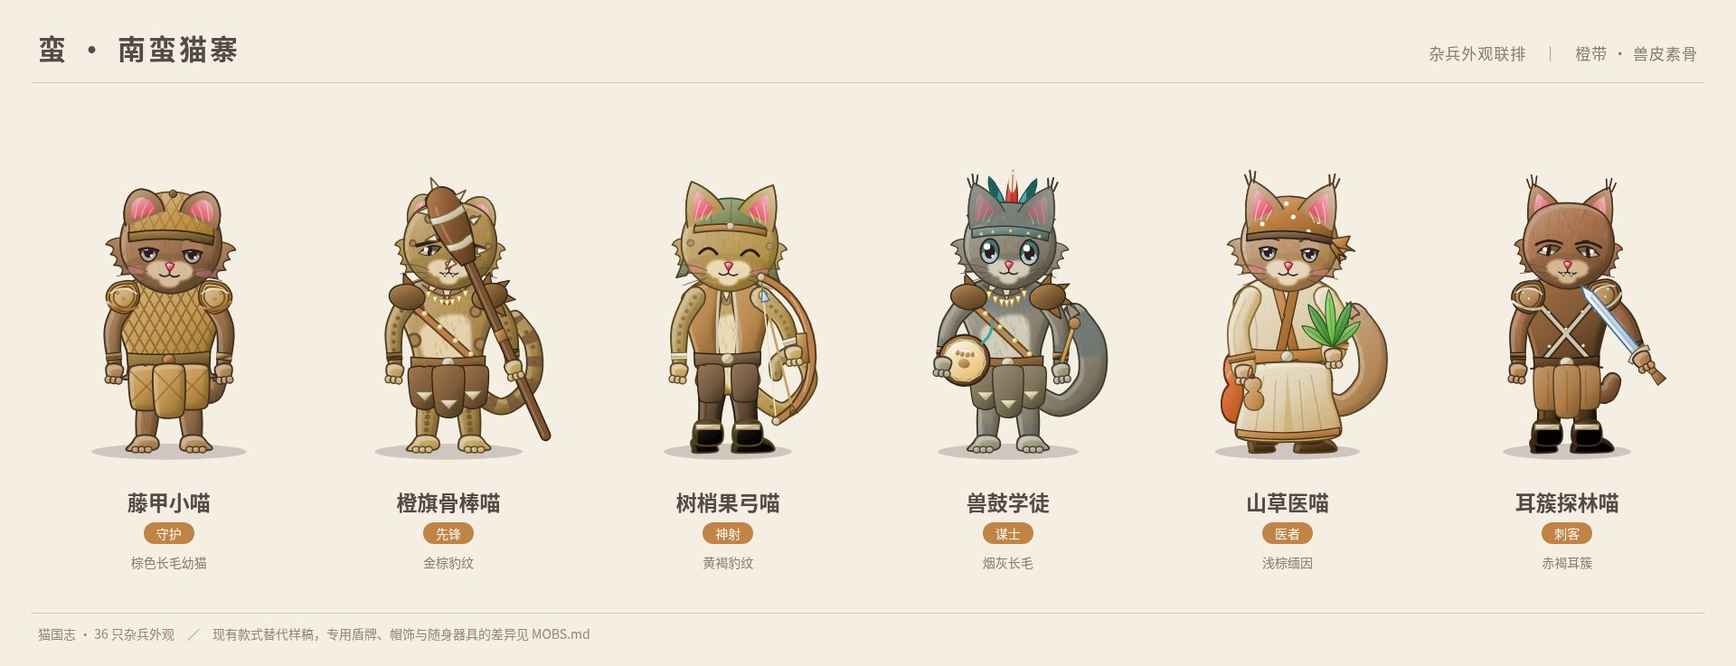
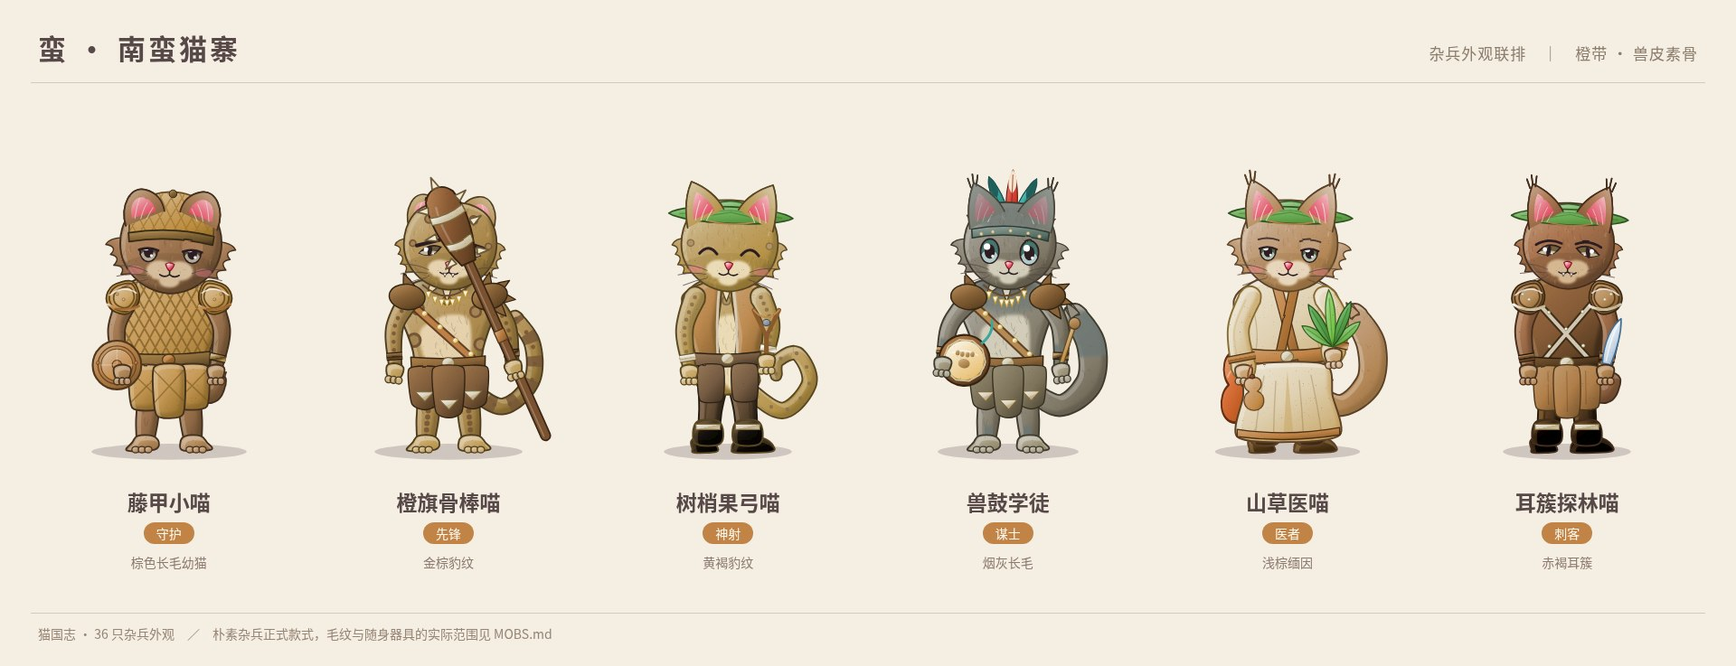
feat(mobs): use approved plain equipment and finalize 36 looks

diff --git a/src/data/mob-looks.ts b/src/data/mob-looks.ts
@@ -10,14 +10,14 @@ const UNIFORM: Record<string, Palette> = {
   xian: { main: '#619f9a', sub: '#486c70', trim: '#bdccc4', cloth: '#e4eeea' },
 };
 
-/** 每只杂兵手写毛色、五官、体型和装束；缺款式的替代明细见 docs/MOBS.md。 */
+/** 每只杂兵手写毛色、五官、体型和装束；现有款式的实际范围见 docs/MOBS.md。 */
 export const MOB_LOOKS: Record<string, CatLook> = {
   // 魏：蓝甲与旧银布边，连巡夜用的颈巾也有军需处的蓝。
   mob_wei_guard: {
     coat: { pattern: 'solid', base: '#8295ae', light: '#dce4ed' },
     eye: { color: '#bd925a', style: 'round' }, ear: 'round', tail: 'stub',
     build: 1.08, head: 1.03, blush: true,
-    outfit: { pal: { ...UNIFORM.wei, main: '#4c6284', cloth: '#c7d3e0' }, head: 'helmetWei', body: 'armorWei', back: 'none', weapon: 'none', extra: [] },
+    outfit: { pal: { ...UNIFORM.wei, main: '#4c6284', cloth: '#c7d3e0' }, head: 'helmetWei', body: 'armorWei', back: 'none', weapon: 'boxShield', extra: [] },
   },
   mob_wei_vanguard: {
     coat: { pattern: 'tabby', base: '#96928b', light: '#e2dcd0', stripe: '#5c6068' },
@@ -29,7 +29,7 @@ export const MOB_LOOKS: Record<string, CatLook> = {
     coat: { pattern: 'shaded', base: '#bac2ca', light: '#f1eee5', accent: '#8493a5' },
     eye: { color: '#699baa', style: 'sharp' }, ear: 'pointy', tail: 'curl',
     build: 0.9, head: 0.98, blush: true,
-    outfit: { pal: { ...UNIFORM.wei, main: '#526a91', cloth: '#55708f' }, head: 'scholarCap', body: 'vest', back: 'none', weapon: 'bow', extra: [] },
+    outfit: { pal: { ...UNIFORM.wei, main: '#526a91', cloth: '#55708f' }, head: 'scholarCap', body: 'vest', back: 'none', weapon: 'crossbow', extra: [] },
   },
   mob_wei_strategist: {
     coat: { pattern: 'tuxedo', base: '#839ab2', light: '#f4eee3' },
@@ -47,7 +47,7 @@ export const MOB_LOOKS: Record<string, CatLook> = {
     coat: { pattern: 'shaded', base: '#78818d', light: '#c6ced3', accent: '#525e70' },
     eye: { color: '#87a27c', style: 'cool' }, ear: 'pointy', tail: 'long',
     build: 0.89, head: 0.96,
-    outfit: { pal: { ...UNIFORM.wei, main: '#3c5069', sub: '#303d4e', trim: '#929ea9' }, head: 'none', body: 'vest', back: 'none', weapon: 'sword', extra: ['scarf'] },
+    outfit: { pal: { ...UNIFORM.wei, main: '#3c5069', sub: '#303d4e', trim: '#929ea9' }, head: 'hood', body: 'vest', back: 'none', weapon: 'dagger', extra: ['scarf'] },
   },
 
   // 蜀：绿布、米白里衬和温红缝边；草编甲仍保留猫窝的本色。
@@ -55,7 +55,7 @@ export const MOB_LOOKS: Record<string, CatLook> = {
     coat: { pattern: 'tuxedo', base: '#d79557', light: '#f5ead9' },
     eye: { color: '#7e956a', style: 'round' }, ear: 'big', tail: 'curl',
     build: 1.08, head: 1.02, blush: true,
-    outfit: { pal: { ...UNIFORM.shu, main: '#608b61' }, head: 'sailorBandana', body: 'rattan', back: 'none', weapon: 'none', extra: ['scarf'] },
+    outfit: { pal: { ...UNIFORM.shu, main: '#608b61' }, head: 'sailorBandana', body: 'rattan', back: 'none', weapon: 'shield', extra: ['scarf'] },
   },
   mob_shu_vanguard: {
     coat: { pattern: 'tabby', base: '#a78a65', light: '#e4d5b8', stripe: '#665647' },
@@ -67,7 +67,7 @@ export const MOB_LOOKS: Record<string, CatLook> = {
     coat: { pattern: 'calico', base: '#d98f56', light: '#f4eadb', accent: '#54463e' },
     eye: { color: '#859f6f', style: 'keen' }, ear: 'round', tail: 'curl',
     build: 0.89, head: 1.02, blush: true,
-    outfit: { pal: { ...UNIFORM.shu, main: '#679669', cloth: '#9bae8b' }, head: 'scholarCap', body: 'vest', back: 'none', weapon: 'bow', extra: [] },
+    outfit: { pal: { ...UNIFORM.shu, main: '#679669', cloth: '#9bae8b' }, head: 'leafHat', body: 'vest', back: 'none', weapon: 'bow', extra: [] },
   },
   mob_shu_strategist: {
     coat: { pattern: 'tabby', base: '#deca9e', light: '#f5ecda', stripe: '#aa916d' },
@@ -85,7 +85,7 @@ export const MOB_LOOKS: Record<string, CatLook> = {
     coat: { pattern: 'tabby', base: '#7c6655', light: '#c9bda8', stripe: '#4b443e' },
     eye: { color: '#83a082', style: 'keen' }, ear: 'pointy', tail: 'long',
     build: 0.88, head: 0.98,
-    outfit: { pal: { ...UNIFORM.shu, main: '#64846a', sub: '#626e65', trim: '#aaa891' }, head: 'none', body: 'vest', back: 'none', weapon: 'sword', extra: ['scarf'] },
+    outfit: { pal: { ...UNIFORM.shu, main: '#64846a', sub: '#626e65', trim: '#aaa891' }, head: 'none', body: 'vest', back: 'none', weapon: 'dagger', extra: ['scarf'] },
   },
 
   // 吴：赤布配磨旧的铜褐边；不用英雄的亮金冠和飘带。
@@ -93,7 +93,7 @@ export const MOB_LOOKS: Record<string, CatLook> = {
     coat: { pattern: 'cow', base: '#969ca3', light: '#eeece5', accent: '#969ca3' },
     eye: { color: '#a69a76', style: 'wide' }, ear: 'round', tail: 'stub',
     build: 1.07, head: 1.04, blush: true,
-    outfit: { pal: { ...UNIFORM.wu, main: '#ba5c50' }, head: 'sailorBandana', body: 'armorLight', back: 'none', weapon: 'none', extra: [] },
+    outfit: { pal: { ...UNIFORM.wu, main: '#ba5c50' }, head: 'ratCap', body: 'armorLight', back: 'none', weapon: 'shield', extra: [] },
   },
   mob_wu_vanguard: {
     coat: { pattern: 'spots', base: '#bc965f', light: '#ecd8b8', accent: '#765337' },
@@ -117,13 +117,13 @@ export const MOB_LOOKS: Record<string, CatLook> = {
     coat: { pattern: 'shaded', base: '#dcc79b', light: '#f6ead3', accent: '#b8a37d' },
     eye: { color: '#85a995', style: 'calm' }, ear: 'round', tail: 'long',
     build: 0.97, head: 1.01, blush: true,
-    outfit: { pal: { ...UNIFORM.wu, cloth: '#eed5cc', trim: '#9bac8e' }, head: 'lotusCrown', body: 'robeScholar', back: 'none', weapon: 'herbs', extra: [] },
+    outfit: { pal: { ...UNIFORM.wu, cloth: '#eed5cc', trim: '#9bac8e' }, head: 'leafHat', body: 'robeScholar', back: 'none', weapon: 'herbs', extra: [] },
   },
   mob_wu_assassin: {
     coat: { pattern: 'spots', base: '#8f7256', light: '#d5c3a9', accent: '#50433a' },
     eye: { color: '#a4a779', style: 'sharp' }, ear: 'pointy', tail: 'ring',
     build: 0.9, head: 0.96,
-    outfit: { pal: { ...UNIFORM.wu, main: '#7d514a', sub: '#5f403c', trim: '#a59785' }, head: 'none', body: 'vest', back: 'none', weapon: 'sword', extra: ['scarf'] },
+    outfit: { pal: { ...UNIFORM.wu, main: '#7d514a', sub: '#5f403c', trim: '#a59785' }, head: 'hood', body: 'vest', back: 'none', weapon: 'dagger', extra: ['scarf'] },
   },
 
   // 群：紫褐衣料与灰布扣，行囊旧一些，爪子仍擦得很干净。
@@ -131,7 +131,7 @@ export const MOB_LOOKS: Record<string, CatLook> = {
     coat: { pattern: 'solid', base: '#9c7a60', light: '#dac4a5' },
     eye: { color: '#af9b6d', style: 'cool' }, ear: 'round', tail: 'stub',
     build: 1.12, head: 1.03, blush: true,
-    outfit: { pal: { ...UNIFORM.qun, main: '#766283', sub: '#615766' }, head: 'helmetWei', body: 'armorWei', back: 'none', weapon: 'none', extra: [] },
+    outfit: { pal: { ...UNIFORM.qun, main: '#766283', sub: '#615766' }, head: 'helmetWei', body: 'armorWei', back: 'none', weapon: 'shield', extra: [] },
   },
   mob_qun_vanguard: {
     coat: { pattern: 'cow', base: '#51494c', light: '#ece7db', accent: '#51494c' },
@@ -161,7 +161,7 @@ export const MOB_LOOKS: Record<string, CatLook> = {
     coat: { pattern: 'tuxedo', base: '#464049', light: '#ebe7de' },
     eye: { color: '#90a5a2', style: 'keen' }, ear: 'pointy', tail: 'long',
     build: 0.88, head: 0.97,
-    outfit: { pal: { ...UNIFORM.qun, main: '#67536e', sub: '#514552', trim: '#9f929c' }, head: 'none', body: 'vest', back: 'none', weapon: 'sword', extra: ['tassel'] },
+    outfit: { pal: { ...UNIFORM.qun, main: '#67536e', sub: '#514552', trim: '#9f929c' }, head: 'hood', body: 'vest', back: 'none', weapon: 'dagger', extra: ['tassel'] },
   },
 
   // 蛮：橙带、兽皮与素骨；藤甲、羽冠和草药各有自己的山林差事。
@@ -169,7 +169,7 @@ export const MOB_LOOKS: Record<string, CatLook> = {
     coat: { pattern: 'solid', base: '#aa7e58', light: '#dac2a1' },
     eye: { color: '#948264', style: 'sleepy' }, ear: 'round', tail: 'stub',
     build: 1.08, head: 1.07, fluffy: true, blush: true,
-    outfit: { pal: { ...UNIFORM.man, trim: '#c18346' }, head: 'rattanHelm', body: 'rattan', back: 'none', weapon: 'none', extra: [] },
+    outfit: { pal: { ...UNIFORM.man, trim: '#c18346' }, head: 'rattanHelm', body: 'rattan', back: 'none', weapon: 'shield', extra: [] },
   },
   mob_man_vanguard: {
     coat: { pattern: 'spots', base: '#b99860', light: '#ead7b5', accent: '#765637' },
@@ -181,7 +181,7 @@ export const MOB_LOOKS: Record<string, CatLook> = {
     coat: { pattern: 'spots', base: '#c2a66f', light: '#eee0bd', accent: '#8b714c' },
     eye: { color: '#8eaa7d', style: 'happy' }, ear: 'pointy', tail: 'curl',
     build: 0.89, head: 1.02, blush: true,
-    outfit: { pal: { ...UNIFORM.man, main: '#bd8a50', cloth: '#8e9a6b' }, head: 'scholarCap', body: 'vest', back: 'none', weapon: 'bow', extra: [] },
+    outfit: { pal: { ...UNIFORM.man, main: '#bd8a50', cloth: '#8e9a6b' }, head: 'leafHat', body: 'vest', back: 'none', weapon: 'slingshot', extra: [] },
   },
   mob_man_strategist: {
     coat: { pattern: 'shaded', base: '#969183', light: '#d8d3bf', accent: '#6c7774' },
@@ -193,13 +193,13 @@ export const MOB_LOOKS: Record<string, CatLook> = {
     coat: { pattern: 'solid', base: '#c2a07e', light: '#ebdbc2' },
     eye: { color: '#899f7d', style: 'calm' }, ear: 'tuft', tail: 'bushy',
     build: 1.01, head: 1.02, fluffy: true, blush: true,
-    outfit: { pal: { ...UNIFORM.man, cloth: '#dfd0b0' }, head: 'sailorBandana', body: 'robeScholar', back: 'gourd', weapon: 'herbs', extra: [] },
+    outfit: { pal: { ...UNIFORM.man, cloth: '#dfd0b0' }, head: 'leafHat', body: 'robeScholar', back: 'gourd', weapon: 'herbs', extra: [] },
   },
   mob_man_assassin: {
     coat: { pattern: 'solid', base: '#ad7752', light: '#d9bd96' },
     eye: { color: '#af976e', style: 'keen' }, ear: 'tuft', tail: 'stub',
     build: 0.89, head: 0.96,
-    outfit: { pal: { ...UNIFORM.man, main: '#b07e49', sub: '#765a46' }, head: 'none', body: 'armorLight', back: 'none', weapon: 'sword', extra: [] },
+    outfit: { pal: { ...UNIFORM.man, main: '#b07e49', sub: '#765a46' }, head: 'leafHat', body: 'armorLight', back: 'none', weapon: 'dagger', extra: [] },
   },
 
   // 仙：青白棉袍与灰玉布扣，值门和拾铃的小猫不带仙光。
@@ -207,7 +207,7 @@ export const MOB_LOOKS: Record<string, CatLook> = {
     coat: { pattern: 'solid', base: '#eeeae1', light: '#faf5e9' },
     eye: { color: '#8ca8b3', style: 'round' }, ear: 'round', tail: 'bushy',
     build: 1.08, head: 1.04, fluffy: true, blush: true,
-    outfit: { pal: { ...UNIFORM.xian, cloth: '#b9ceca', trim: '#92b5ab' }, head: 'lotusCrown', body: 'robeTaoist', back: 'none', weapon: 'none', extra: [] },
+    outfit: { pal: { ...UNIFORM.xian, cloth: '#b9ceca', trim: '#92b5ab' }, head: 'lotusCrown', body: 'robeTaoist', back: 'none', weapon: 'shield', extra: [] },
   },
   mob_xian_vanguard: {
     coat: { pattern: 'shaded', base: '#ccd3d1', light: '#f4f1e8', accent: '#a2b6bc' },
@@ -219,7 +219,7 @@ export const MOB_LOOKS: Record<string, CatLook> = {
     coat: { pattern: 'solid', base: '#48454c', light: '#817780' },
     eye: { color: '#a9ae88', style: 'wide' }, ear: 'pointy', tail: 'curl',
     build: 0.9, head: 0.99,
-    outfit: { pal: { ...UNIFORM.xian, main: '#638a88', sub: '#5b6e73', trim: '#a9b4a4' }, head: 'fortuneHat', body: 'vest', back: 'none', weapon: 'none', extra: [] },
+    outfit: { pal: { ...UNIFORM.xian, main: '#638a88', sub: '#5b6e73', trim: '#a9b4a4' }, head: 'fortuneHat', body: 'vest', back: 'none', weapon: 'coinsPlain', extra: [] },
   },
   mob_xian_strategist: {
     coat: { pattern: 'tuxedo', base: '#4d4951', light: '#ede8dc' },
@@ -237,6 +237,6 @@ export const MOB_LOOKS: Record<string, CatLook> = {
     coat: { pattern: 'solid', base: '#e9ece5', light: '#f9f6ed' },
     eye: { color: '#9c9db3', style: 'cool' }, ear: 'pointy', tail: 'bushy',
     build: 0.89, head: 0.98, fluffy: true, blush: true,
-    outfit: { pal: { ...UNIFORM.xian, main: '#83aaa5', sub: '#698b89', cloth: '#d7e8e4', trim: '#b8c6bc' }, head: 'none', body: 'robeScholar', back: 'none', weapon: 'sword', extra: ['bell'] },
+    outfit: { pal: { ...UNIFORM.xian, main: '#83aaa5', sub: '#698b89', cloth: '#d7e8e4', trim: '#b8c6bc' }, head: 'none', body: 'robeScholar', back: 'none', weapon: 'dagger', extra: ['bell'] },
   },
 };

diff --git a/tests/mob-looks.test.ts b/tests/mob-looks.test.ts
@@ -94,6 +94,29 @@ describe('handwritten mob looks', () => {
     expect(MOB_LOOKS.mob_xian_assassin.fluffy).toBe(true);
   });
 
+  it('uses the approved plain mob equipment without reintroducing magical ornaments', () => {
+    for (const faction of FACTION_ORDER) {
+      expect(MOB_LOOKS[`mob_${faction}_guard`].outfit.weapon, faction).toBe(faction === 'wei' ? 'boxShield' : 'shield');
+      expect(MOB_LOOKS[`mob_${faction}_assassin`].outfit.weapon, faction).toBe('dagger');
+    }
+    expect(MOB_LOOKS.mob_wei_archer.outfit.weapon).toBe('crossbow');
+    expect(MOB_LOOKS.mob_man_archer.outfit.weapon).toBe('slingshot');
+    expect(MOB_LOOKS.mob_wu_guard.outfit.head).toBe('ratCap');
+    for (const id of ['mob_wei_assassin', 'mob_wu_assassin', 'mob_qun_assassin']) {
+      expect(MOB_LOOKS[id].outfit.head, id).toBe('hood');
+    }
+    for (const id of ['mob_shu_archer', 'mob_wu_healer', 'mob_man_archer', 'mob_man_healer', 'mob_man_assassin']) {
+      expect(MOB_LOOKS[id].outfit.head, id).toBe('leafHat');
+    }
+    expect(MOB_LOOKS.mob_xian_strategist.outfit.weapon).toBe('scroll');
+    expect(MOB_LOOKS.mob_xian_archer.outfit.weapon).toBe('coinsPlain');
+    const coins = catSvg(MOB_LOOKS.mob_xian_archer, { uid: 'plain-coins' });
+    expect(coins).toContain('<rect');
+    expect(coins).not.toContain('#fff6c0'); // coins 固定闪星的填充色。
+    for (const id of ['mob_wu_assassin', 'mob_xian_assassin']) expect(MOB_LOOKS[id].outfit.back, id).toBe('none');
+    for (const look of Object.values(MOB_LOOKS)) expect(look.outfit.extra ?? []).not.toContain('glowEyes');
+  });
+
   it('has valid colors and finite art dimensions, and all looks render through the original pipeline', () => {
     for (const [id, look] of Object.entries(MOB_LOOKS)) {
       const colors = [look.coat.base, look.coat.light, look.coat.accent, look.coat.stripe, look.coat.pink,

diff --git a/docs/MOBS.md b/docs/MOBS.md
@@ -6,62 +6,62 @@
 
 ## 对照表
 
-表中写的是当前已有款式实际绘出的东西。`lookHint` 中尚无款式的物件，见表后的待确认清单；表里的空爪没有暗指已画出盾牌。
+表中写的是当前已有款式实际绘出的东西。已按 Claude 在 Issue #26 的回复接入新增的朴素款式；与 `lookHint` 的具体物件仍有差别之处，在表后注明实际绘制范围。
 
 | 名称 | 阵营 | 职业 | 毛色 | 配饰与装束一句话 |
 | --- | --- | --- | --- | --- |
-| 纸箱守卫 | 魏 | 守护 | 蓝灰纯色，浅灰口鼻 | 小玄甲盔配深蓝鳞甲，圆耳短尾，空爪等纸箱盾款式。 |
+| 纸箱守卫 | 魏 | 守护 | 蓝灰纯色，浅灰口鼻 | 小玄甲盔配深蓝鳞甲，圆耳短尾，爪中纸箱盾带一枚肉垫印。 |
 | 铁爪先登喵 | 魏 | 先锋 | 灰虎斑，冷灰细纹 | 蓝缨玄甲盔、玄色皮甲与单柄短剑，腰侧不加挂饰。 |
-| 鱼骨弩手 | 魏 | 神射 | 银渐层，蓝灰毛尖 | 窄色蓝书帽和靛蓝短褂，暂持现有木弓与铃箭。 |
+| 鱼骨弩手 | 魏 | 神射 | 银渐层，蓝灰毛尖 | 窄色蓝书帽和靛蓝短褂配小木弩，弩弦与箭身贴着右爪。 |
 | 粮簿参军 | 魏 | 谋士 | 蓝白燕尾双色 | 深蓝书帽、旧银交领长袍，爪中卷粮簿有一枚圆印。 |
 | 温奶医喵 | 魏 | 医者 | 暖白长毛 | 蓝布点纹药巾、浅蓝医袍，草药在爪，奶葫芦挂在身后。 |
-| 夜巡绒卫 | 魏 | 刺客 | 烟灰渐层 | 蓝黑贴身短褂绕一条细颈巾，单剑不带悬浮飞刀。 |
-| 草鞋护粮喵 | 蜀 | 守护 | 橘白双色 | 绿头巾和草编护甲配朴素绿颈巾，圆盾暂留空。 |
+| 夜巡绒卫 | 魏 | 刺客 | 烟灰渐层 | 蓝黑兜帽与贴身短褂绕一条细颈巾，单把短刀不带悬浮飞刀。 |
+| 草鞋护粮喵 | 蜀 | 守护 | 橘白双色 | 绿头巾、草编护甲与绿颈巾配木圆盾，绿盾面衬着米白里布。 |
 | 桃园义勇喵 | 蜀 | 先锋 | 棕色狸花 | 绿缨盔与温红布边轻甲，手持鱼骨长柄刀，胸前只留布穗。 |
-| 青竹铃箭喵 | 蜀 | 神射 | 橘黑三花，米白底 | 青叶色小书帽压住圆耳，翠绿短褂配木弓和铃箭。 |
+| 青竹铃箭喵 | 蜀 | 神射 | 橘黑三花，米白底 | 青竹叶帽露出圆耳，翠绿短褂配木弓和铃箭。 |
 | 羽扇书童 | 蜀 | 谋士 | 奶油狸花 | 小绿冠、米白绿边长袍，羽扇在前，地图卷在后。 |
 | 分粥医喵 | 蜀 | 医者 | 白底橘斑 | 绿药巾与浅绿医袍，抱一束药草和小药葫芦。 |
-| 瓦檐轻爪喵 | 蜀 | 刺客 | 深棕狸花 | 绿颈巾盖住瓦灰短衣的领口，轻装单剑适合走窄檐。 |
-| 水寨鼠兵 | 吴 | 守护 | 灰白花斑 | 圆猫耳露在赤红水师头巾外，短甲不配英雄重肩甲。 |
+| 瓦檐轻爪喵 | 蜀 | 刺客 | 深棕狸花 | 绿颈巾盖住瓦灰短衣的领口，轻装单把短刀适合走窄檐。 |
+| 水寨鼠兵 | 吴 | 守护 | 灰白花斑 | 圆鼠耳帽戴在灰白猫头上，赤红短甲配木圆船盾。 |
 | 踏浪短尾喵 | 吴 | 先锋 | 金棕豹纹 | 赤缨小盔、红边轻甲与单剑，短尾直接露出船卫身份。 |
 | 江东铃弓手 | 吴 | 神射 | 奶油纯色 | 赤红点纹头巾与弓手轻甲，圆耳和卷尾陪着铃弓。 |
 | 炭炉小军师 | 吴 | 谋士 | 海豹重点色 | 铜褐小冠与赤色学士袍，羽扇保留，炭炉尚无款式。 |
-| 荷叶药喵 | 吴 | 医者 | 浅金渐层 | 灰绿莲形药冠压在淡红医袍上，草药与小葫芦代随船药具。 |
-| 芦苇潜行喵 | 吴 | 刺客 | 棕黑豹纹 | 暗红夜行短褂配窄颈巾和单剑，去掉提示中的芦苇斗篷。 |
-| 饭桌护盘喵 | 群 | 守护 | 暖棕纯色 | 紫布色小盔和紫灰鳞甲，短尾圆身，护盘盾款式待补。 |
+| 荷叶药喵 | 吴 | 医者 | 浅金渐层 | 宽沿叶药帽配淡红医袍，草药与小葫芦作随船药具。 |
+| 芦苇潜行喵 | 吴 | 刺客 | 棕黑豹纹 | 暗红兜帽与夜行短褂配窄颈巾和短刀，背后不加芦苇斗篷。 |
+| 饭桌护盘喵 | 群 | 守护 | 暖棕纯色 | 紫布色小盔和紫灰鳞甲衬着短尾圆身，木圆盾配紫灰盾面。 |
 | 山贼喵 | 群 | 先锋 | 黑白奶牛花斑 | 旧紫头巾配褐色皮甲，抱一把鱼骨长刀，身后不挂战旗。 |
 | 紫羽游弓喵 | 群 | 神射 | 棕黑花斑，棕底代玳瑁 | 紫褐短衣与灰紫书帽衬着细耳簇，曲木弓不加羽冠。 |
 | 锦囊摊主 | 群 | 谋士 | 烟黑纯色 | 紫边书帽、灰紫旧袍与一本卷策，布穗表示摊主随身小物。 |
 | 走街药喵 | 群 | 医者 | 银灰渐层 | 浅紫药巾和紫边米白医袍，草药配药葫芦随爪递出。 |
-| 月下轻尾喵 | 群 | 刺客 | 黑白燕尾双色 | 暗紫软短衣配紫布穗，露出猫耳，不给夜巡猫加披风。 |
-| 藤甲小喵 | 蛮 | 守护 | 棕色长毛 | 圆藤盔、藤编甲与橙色扣带配大一点的幼猫头，藤盾待补。 |
+| 月下轻尾喵 | 群 | 刺客 | 黑白燕尾双色 | 暗紫兜帽露出猫耳，软短衣配紫布穗与单把短刀，背后不加披风。 |
+| 藤甲小喵 | 蛮 | 守护 | 棕色长毛 | 圆藤盔、藤编甲与橙带配幼猫大头，木圆盾上留朴素橙扣。 |
 | 橙旗骨棒喵 | 蛮 | 先锋 | 金棕豹纹 | 橙带兽皮装串着素骨珠，现有骨棒在爪，小旗不作背饰。 |
-| 树梢果弓喵 | 蛮 | 神射 | 黄褐豹纹 | 叶色书帽配橙短褂，先用木弓表达树梢练准头的差事。 |
+| 树梢果弓喵 | 蛮 | 神射 | 黄褐豹纹 | 宽沿叶帽配橙短褂，枝杈弹弓的弦绳跟着制服用橙色。 |
 | 兽鼓学徒 | 蛮 | 谋士 | 烟灰长毛渐层 | 橙青羽冠配兽皮祭装，爪印兽鼓和小鼓槌都用现有款。 |
-| 山草医喵 | 蛮 | 医者 | 浅棕长毛 | 橙药巾、橙边麻布医袍与草药，身后挂朴素水葫芦。 |
-| 耳簇探林喵 | 蛮 | 刺客 | 赤褐纯色 | 深色耳簇不被头饰遮住，橙棕皮甲配单剑，尾巴收得短。 |
-| 云门蒲团卫 | 仙 | 守护 | 暖白长毛 | 青莲小冠与青灰厚道袍围住圆身，空爪等云纹蒲团盾。 |
+| 山草医喵 | 蛮 | 医者 | 浅棕长毛 | 叶药帽、橙边麻布医袍与草药，身后挂朴素水葫芦。 |
+| 耳簇探林喵 | 蛮 | 刺客 | 赤褐纯色 | 叶帽上露出深色耳簇，橙棕皮甲配单把短刀，尾巴收得短。 |
+| 云门蒲团卫 | 仙 | 守护 | 暖白长毛 | 青莲小冠与青灰厚道袍围住圆身，木圆盾的盾面用云门青色。 |
 | 青符踏云喵 | 仙 | 先锋 | 银白长毛渐层 | 灰玉青冠和青白轻袍配单剑，云门制服不用英雄法杖。 |
-| 铜钱抛投喵 | 仙 | 神射 | 烟黑纯色 | 青边小方帽与青灰短褂，铜钱款式有固定闪星，当前先留空爪。 |
+| 铜钱抛投喵 | 仙 | 神射 | 烟黑纯色 | 青边小方帽与青灰短褂配三枚方孔铜钱，铜钱不带闪星。 |
 | 黄巾小道喵 | 仙 | 谋士 | 黑白双色 | 黄布巾在头、青色道袍在身，手持卷轴，避免现有符箓黄光晕。 |
 | 灵泉暖爪喵 | 仙 | 医者 | 蓝灰渐层折耳 | 青药冠和浅青医袍露出折耳，药草与葫芦代温泉药具。 |
-| 幻影拾铃喵 | 仙 | 刺客 | 霜白长毛 | 浅青夜行袍挂一只日常小铃，单剑配空背，不画半透斗篷。 |
+| 幻影拾铃喵 | 仙 | 刺客 | 霜白长毛 | 浅青夜行袍挂一只日常小铃，单把短刀配空背，不画半透斗篷。 |
 
-## 既有款式与待确认差异
+## 已批准的款式与实际范围
 
-没有新增或改写美术款式。当前使用的头饰为 `none`、`helmetWei`、`scholarCap`、`sailorBandana`、`taoistCrown`、`lotusCrown`、`rattanHelm`、`featherHeaddress`、`fortuneHat`、`yellowBand`；衣装为 `armorWei`、`armorLight`、`vest`、`robeScholar`、`robeTaoist`、`rattan`、`tribal`；背饰仅 `none`、`gourd`、`scrollBack`；手持道具仅 `none`、`sword`、`bow`、`scroll`、`glaive`、`fan`、`herbs`、`mace`、`drum`。额外配饰限于 `scarf`、`tassel`、`bell`。
+Claude 在 [替代方案答复](https://github.com/acaozixu123456/myRepository/issues/26#issuecomment-6106304792) 批准了朴素制服与器具取舍，随后在 [正式款式补充](https://github.com/acaozixu123456/myRepository/issues/26#issuecomment-6106319562) 要求本 PR 直接接入新增款式。本版已完成替换，不等待新增美术能力；二色玳瑁仍按该回复保留棕黑花斑替代。
 
-以下缺口已在 [Issue #26 评论](https://github.com/acaozixu123456/myRepository/issues/26#issuecomment-6106067033) 与[绘制限制补充](https://github.com/acaozixu123456/myRepository/issues/26#issuecomment-6106072586) 提问，替代方案等待 Claude 确认：
+没有新增或改写美术款式。头饰使用 `none`、`helmetWei`、`scholarCap`、`sailorBandana`、`taoistCrown`、`lotusCrown`、`rattanHelm`、`featherHeaddress`、`fortuneHat`、`yellowBand`、`ratCap`、`hood`、`leafHat`；衣装使用 `armorWei`、`armorLight`、`vest`、`robeScholar`、`robeTaoist`、`rattan`、`tribal`；背饰仅 `none`、`gourd`、`scrollBack`。手持道具使用 `shield`、`boxShield`、`crossbow`、`slingshot`、`dagger`、`coinsPlain`，以及既有的 `sword`、`bow`、`scroll`、`glaive`、`fan`、`herbs`、`mace`、`drum`。额外配饰限于 `scarf`、`tassel`、`bell`。
 
-- 六名守护的纸箱、桃叶、荷叶、饭盘、藤编、蒲团盾均没有手持盾款式，当前保留空爪，不把骨棒当盾。
-- 魏弩手的弩与蛮果弓手的枝杈弹弓暂用木弓；弓自带小铃和常规箭，软箭头材质与鱼骨弩需另有款式。
-- 鼠耳帽、兜帽、叶帽、窄沿帽、药巾目前没有专用款式，分别使用圆猫耳加水师头巾、露耳夜行衣、叶色书帽、书生帽、布头巾或灰绿莲冠。水寨鼠兵始终是猫，鼠耳帽还未画出。
-- 兽鼓学徒用现有羽冠与兽皮祭装；橙旗骨棒喵的素骨珠由兽皮服自带，额带和手中旗尚未画出。草鞋、补丁、桃花衣纹与藤绳也没有独立字段。
-- 药箱、奶壶、粥罐、贝壳药具、炭炉、药篓、纸伞、锦囊排、绒绳和腰袋不能任意叠加，药具用 `herbs` 自带药葫芦及 `gourd` 替代，粮簿与锦囊题材用 `scroll`。不把替代道具写成已完成的专用物件。
-- 猫毛没有二色玳瑁模式。紫羽游弓喵使用 `calico` 的棕色底、棕斑与黑斑，不用白底三花冒充精确的玳瑁模式。
-- `coins` 固定带浅金闪星，`talisman` 固定带黄色光晕，`knives` 固定带三把空中飞刀；本版分别用空爪、卷轴与单剑，保证杂兵没有法器光效。普通小铃与弓上自带的铃仍沿用原画法，存在小面积黄铜色，无额外发光。
-- 短剑、鱼骨匕与桃木剑当前都只能选现有单剑；它仍是原版银灰剑身，不宣称已绘出木质、圆头、布包刃或贝壳护手。
-- 吴、仙刺客的提示包含斗篷，本版按 Issue 的朴素限制统一空背；群与魏兜帽也不拿披风来代替。
+- 纸箱守卫使用 `boxShield`，纸箱现有图案是肉垫印，不宣称已有魏字。其余五名守护使用 `shield`，盾面随各阵营主色变化；它是木圆盾，不宣称已画出桃叶、荷叶、饭盘、藤编或云纹蒲团的专用造型。
+- 鱼骨弩手使用 `crossbow`，树梢果弓喵使用 `slingshot`；其他弓手保留 `bow`。现有弩与弹弓已经可见，鱼骨纹、软箭头、软果球袋等没有独立字段，图例只描述实际绘出的木弩、枝杈弹弓与常规箭。
+- 水寨鼠兵使用 `ratCap`，猫耳被帽子的圆鼠耳覆盖，角色始终是猫。魏、吴、群的夜行猫使用 `hood`；青竹铃箭喵、荷叶药喵、树梢果弓喵、山草医喵与耳簇探林喵使用 `leafHat`。其他布药巾保留现有头巾，灵泉暖爪喵仍用青色小道冠，不宣称已绘出专用药冠。
+- 六名刺客都使用单把 `dagger`，没有悬浮飞刀。短刀的现有剑身仍为银灰色，不宣称已经绘出鱼骨、桃木、圆头或布包刃的专用材质。
+- 铜钱抛投喵使用不带闪星的 `coinsPlain`；黄巾小道喵仍用 `scroll`，不用带黄色光晕的 `talisman`。普通小铃与弓自带的小铃保留原画法，局部黄铜色属于日常器具；没有光眼或亮金制服镶边。
+- 药箱、奶壶、粥罐、贝壳药具、炭炉、药篓、纸伞、锦囊排、绒绳和腰袋尚无专用组合款式。沿用已批准的 `herbs` 自带药葫芦、`gourd` 和 `scroll` 表达药具或卷簿，图例不把它们写成已完成的专用物件。草鞋、补丁、桃花衣纹与藤绳也不虚写为独立字段。
+- 兽鼓学徒使用现有羽冠、兽皮祭装、爪印兽鼓与鼓槌。橙旗骨棒喵的素骨珠由兽皮服自带，额带和手中旗尚未画出；制服保留橙带识别，背后不加旗。
+- 紫羽游弓喵的二色玳瑁仍为替代毛纹：使用 `calico` 的棕色底、浅棕胸口和黑斑，现有模式并非独立二色玳瑁。紫羽帽饰也未虚写成已经绘出的专用品。
+- 吴、仙刺客按 Issue 的朴素要求保持 `back: 'none'`，不加斗篷；其他杂兵也不使用披风、长披肩、旗背或英雄精英装饰。
 
 ## 联排截图
 
@@ -81,6 +81,6 @@
 
 ## 校验
 
-`tests/mob-looks.test.ts` 校验恰好覆盖全部 36 个杂兵、对象与完整外观无重复、款式同时存在于美术契约和真实绘制分支、颜色与体型有效、没有披风或精英装饰，并逐只调用原 SVG 绘制检查无无效数值。英雄外观与未知单位的原报错行为也有回归校验。
+`tests/mob-looks.test.ts` 校验恰好覆盖全部 36 个杂兵、对象与完整外观无重复、款式同时存在于美术契约和真实绘制分支、颜色与体型有效、没有披风或精英装饰，并检查新增盾牌、弩、帽饰、短刀和无闪星铜钱的对应关系；逐只调用原 SVG 绘制检查无无效数值。英雄外观与未知单位的原报错行为也有回归校验。
 
 提交前运行 `npm run typecheck && npm test`。
